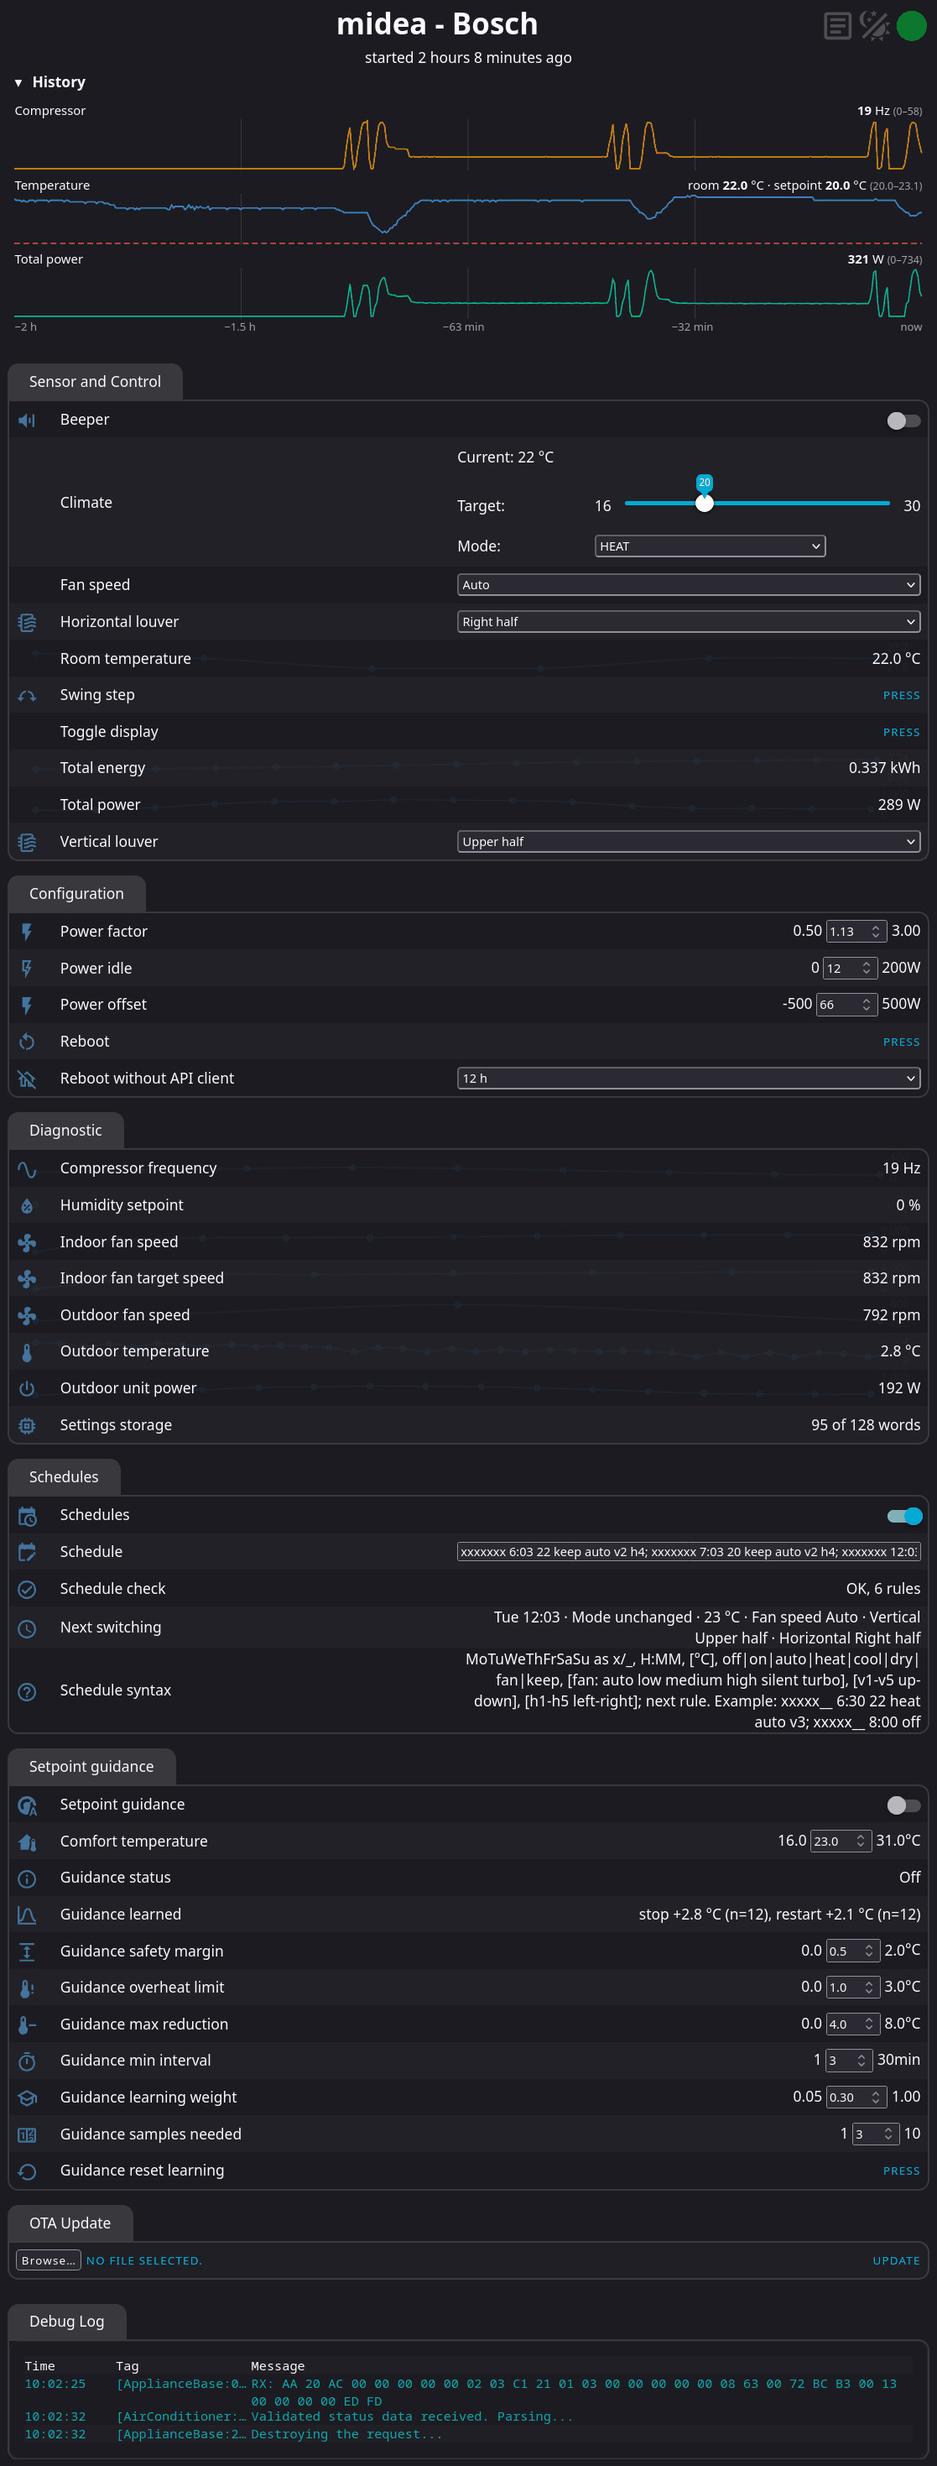
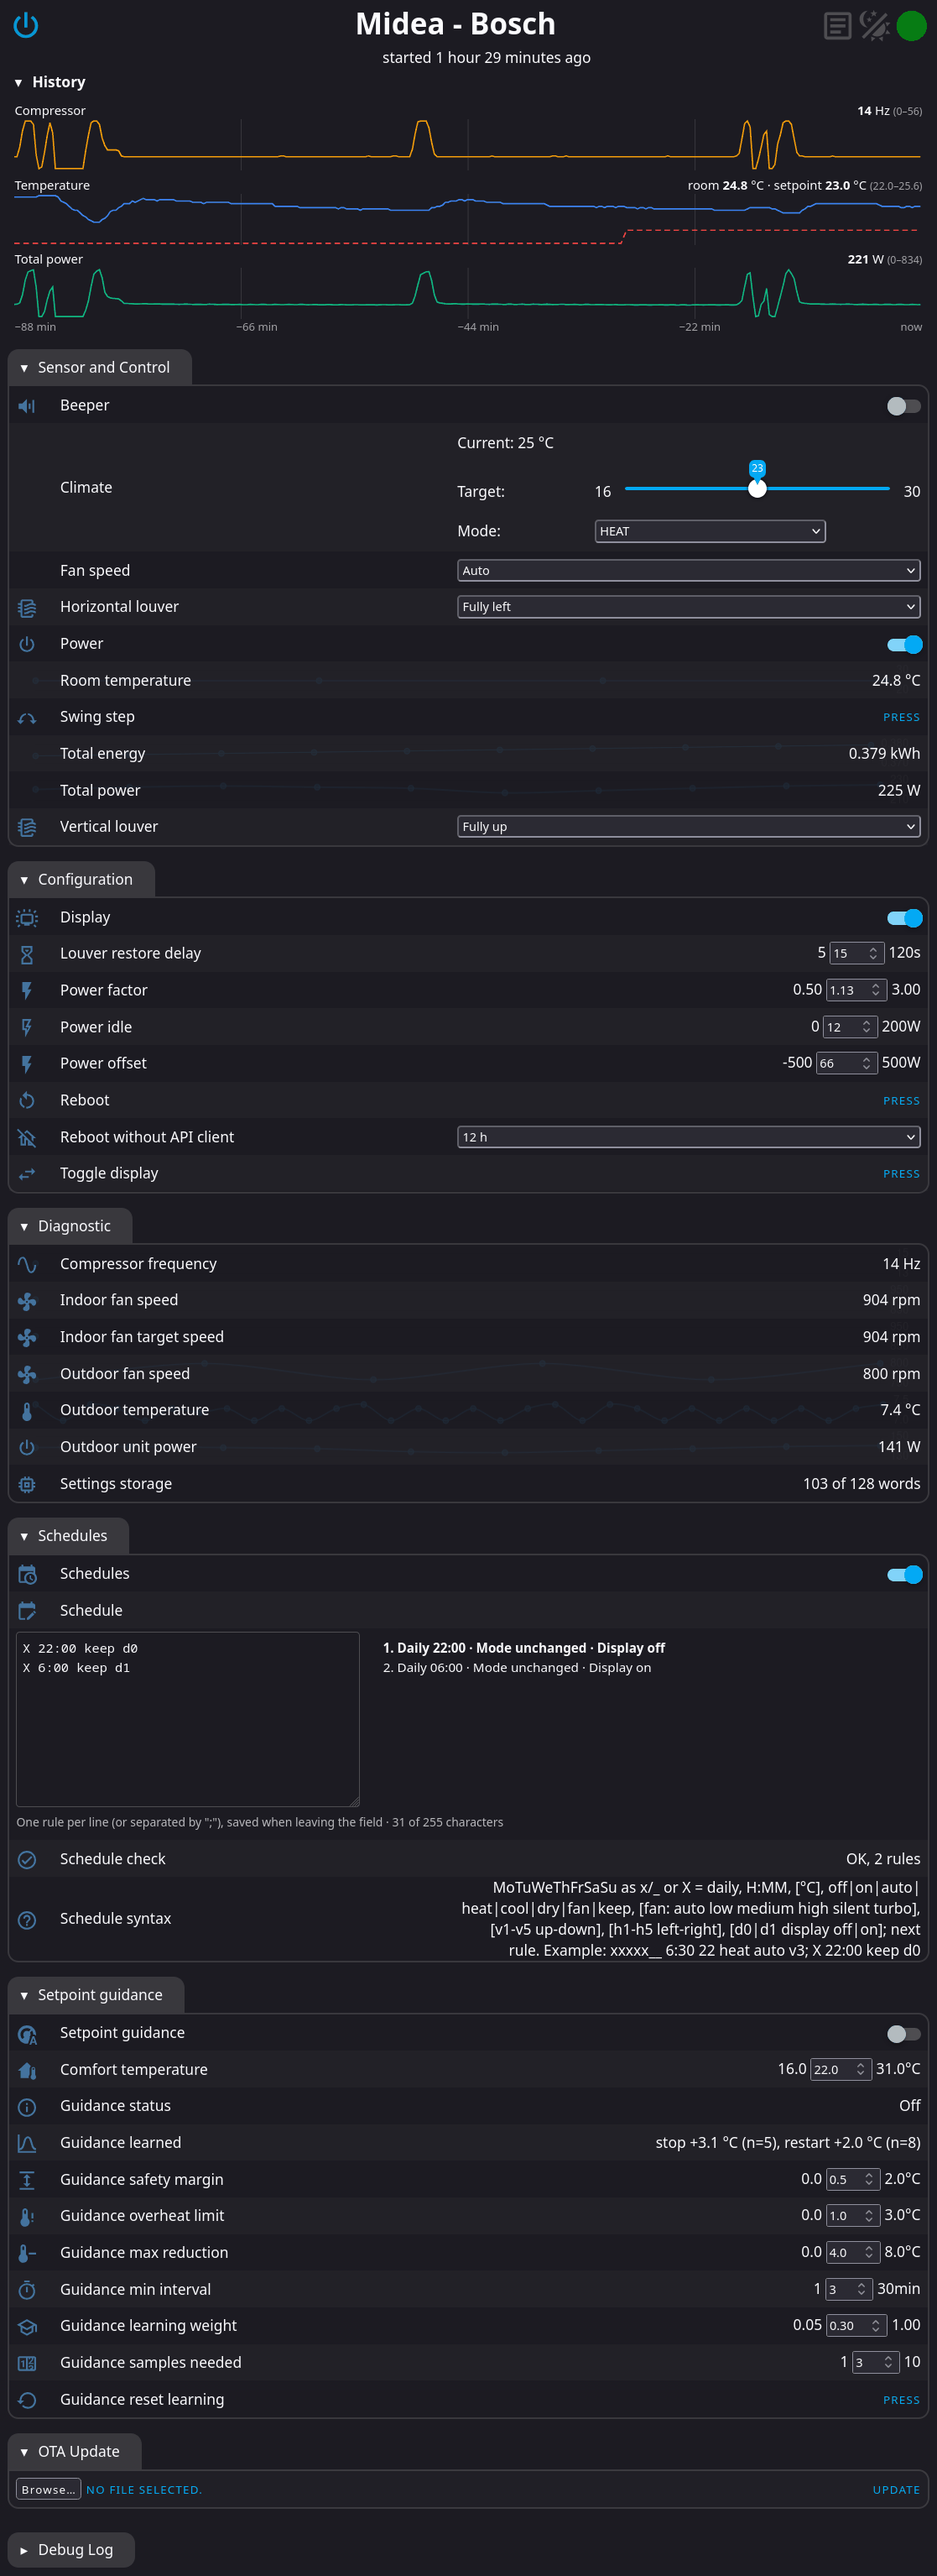
Schedules: display on/off; Bosch: display switch; new screenshots

diff --git a/schedule.h b/schedule.h
@@ -9,7 +9,8 @@
 //	             on = last used mode, keep = mode and on/off unchanged
 //	Fan          an option of the device's fan speed select           (optional, first word after the mode)
 //	Vanes        v1–v5 vertical, h1–h5 horizontal                      (optional)
-// Example: xxxxx__ 6:30 22 heat auto; xxxxx__ 8:00 off; _____xx 8:20 21 heat 2 v3 h1; X 22:00 off
+//	Display      d0 = display off, d1 = display on                      (optional)
+// Example: xxxxx__ 6:30 22 heat auto d1; xxxxx__ 8:00 off; _____xx 8:20 21 heat 2 v3 h1; X 22:00 keep d0
 #pragma once
 
 #include <cctype>
@@ -41,6 +42,7 @@ struct Rule {
 	int8_t fan;      // index of the fan speed select, -1 = unchanged
 	int8_t v;        // 1–5, 0 = unchanged
 	int8_t h;        // 1–5, 0 = unchanged
+	int8_t disp;     // display 0 = off, 1 = on, -1 = unchanged
 };
 
 // The parsed rules of the device (not an ESPHome global, because its type would be declared
@@ -93,7 +95,7 @@ inline std::vector<std::string> words(const std::string &s) {
 
 inline bool parse_rule(const std::vector<std::string> &w, const std::vector<std::string> &fans, Rule &r,
 		std::string &err) {
-	r = Rule{0, 0, NAN, -1, -1, 0, 0};
+	r = Rule{0, 0, NAN, -1, -1, 0, 0, -1};
 	if (w.size() < 3) {
 		err = "too short";
 		return false;
@@ -165,6 +167,10 @@ inline bool parse_rule(const std::vector<std::string> &w, const std::vector<std:
 			(x[0] == 'v' ? r.v : r.h) = x[1] - '0';
 			continue;
 		}
+		if (x == "d0" || x == "d1") {
+			r.disp = x[1] - '0';
+			continue;
+		}
 		if (first) {
 			for (size_t k = 0; k < fans.size(); k++)
 				if (x == fans[k])
@@ -211,7 +217,8 @@ inline void parse(const std::string &text, const std::vector<std::string> &fans,
 
 // Packs the rules into store[2 * MAX_RULES] for the device's settings storage, which is small on
 // the ESP8266 (512 bytes for everything); unused slots are 0.
-//	word 0: bit 31 valid, days (7 bits), minute (11 bits), mode (3 bits), v (3 bits), h (3 bits)
+//	word 0: bit 31 valid, days (7 bits), minute (11 bits), mode (3 bits), v (3 bits), h (3 bits),
+//	        display + 1 (2 bits, 0 = unchanged)
 //	word 1: temperature × 2 (8 bits, 0xFF = unchanged), fan index + 1 (8 bits, 0 = unchanged)
 inline void pack(const std::vector<Rule> &rules, uint32_t *store) {
 	for (int i = 0; i < MAX_RULES; i++) {
@@ -221,7 +228,8 @@ inline void pack(const std::vector<Rule> &rules, uint32_t *store) {
 		}
 		const Rule &r = rules[i];
 		store[2 * i] = 0x80000000u | (uint32_t) (r.days & 0x7F) | ((uint32_t) (r.minute & 0x7FF) << 7) |
-				((uint32_t) (r.mode & 0x7) << 18) | ((uint32_t) (r.v & 0x7) << 21) | ((uint32_t) (r.h & 0x7) << 24);
+				((uint32_t) (r.mode & 0x7) << 18) | ((uint32_t) (r.v & 0x7) << 21) | ((uint32_t) (r.h & 0x7) << 24) |
+				((uint32_t) ((r.disp + 1) & 0x3) << 27);
 		const uint32_t temp = std::isnan(r.temp) ? 0xFF : (uint32_t) std::lround(r.temp * 2);
 		store[2 * i + 1] = (temp & 0xFF) | ((uint32_t) ((r.fan + 1) & 0xFF) << 8);
 	}
@@ -239,6 +247,7 @@ inline void unpack(const uint32_t *store, std::vector<Rule> &rules) {
 		r.mode = (a >> 18) & 0x7;
 		r.v = (a >> 21) & 0x7;
 		r.h = (a >> 24) & 0x7;
+		r.disp = (int8_t) (((a >> 27) & 0x3) - 1);
 		r.temp = (b & 0xFF) == 0xFF ? NAN : (b & 0xFF) / 2.0f;
 		r.fan = (int8_t) (((b >> 8) & 0xFF) - 1);
 		rules.push_back(r);
@@ -273,6 +282,8 @@ inline std::string format(const std::vector<Rule> &rules, const std::vector<std:
 			out += " v" + std::to_string(r.v);
 		if (r.h > 0)
 			out += " h" + std::to_string(r.h);
+		if (r.disp >= 0)
+			out += " d" + std::to_string(r.disp);
 	}
 	return out;
 }

diff --git a/README.md b/README.md
@@ -102,6 +102,7 @@ xxxxx__ 6:30 22 heat auto v3; xxxxx__ 8:00 off; _____xx 8:20 21 keep 2
 | mode | yes | `off`, `on` (last used mode), `auto`, `heat`, `cool`, `dry`, `fan`, `keep` (mode and on/off unchanged) |
 | fan | no | first word after the mode, an option of the device's select "Fan speed" |
 | vanes | no | `v1`–`v5` vertical (`v1` = fully up), `h1`–`h5` horizontal (`h1` = fully left) |
+| display | no | `d0` display of the indoor unit off, `d1` on; with `keep` without changing anything else, e.g. `X 22:00 keep d0` |
 
 - Each rule switches once at its minute. With several rules at the same minute the last one wins.
 - With `keep` and the unit switched off only the target temperature is set.
@@ -172,7 +173,7 @@ The Bosch Climate 4000i is built by Midea; it is the Midea Xtreme Save, model co
 | Vertical louver, Horizontal louver | fixed vane position in five steps or "Last position"; the select shows the position reported by the unit |
 | Louver restore delay | after switching on, the chosen positions are sent again after this time (default 15 s) and then every 30 s until the unit reports them, at most 10 times; while heating starts, the unit keeps the vanes in its own position for a while and ignores commands |
 | Swing step | moves the vanes one step, like a short press of the swing button |
-| Beeper, Toggle display | beeper on/off, display of the indoor unit on/off |
+| Beeper, Display, Toggle display | beeper on/off, display of the indoor unit on/off; the unit only knows "toggle", so the switch "Display" remembers the state after its last command. After switching the display with the remote control, "Toggle display" brings switch and display in line again. |
 | Compressor frequency, Outdoor unit power | from the diagnostic data of the unit |
 | Indoor fan speed, Indoor fan target speed, Outdoor fan speed | fan speeds in rpm, so the current stage is visible in fan mode auto |
 | Outdoor temperature, Room temperature | values reported by the unit |
